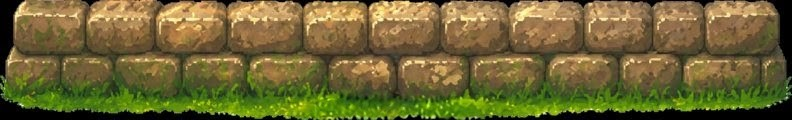
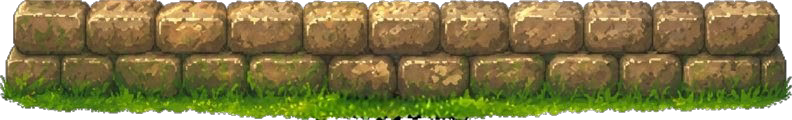
Fix Android release build: sanitize JPEG-encoded foundations, skip PNG re-crunch
The production build died at :app:mergeReleaseResources with
"AAPT: error: file failed to compile" on foundation_0.png and foundation_1.png.

Root cause: those two files were edited in Google Photos and re-saved, which
wrote JPEG bytes under a .png name (FFD8 magic, ~37KB each). Android's resource
compiler tries to compile a .png resource, hits JPEG bytes, and fails. Google
Photos also flattened the alpha channel to solid black, so a naive rename would
have rendered an opaque box over the sky.

Fix, two parts:

1. foundation_0/1 re-encoded to real 8-bit RGBA PNGs (IHDR/IDAT/IEND only) that
   preserve the tonal edits (their RGB) while restoring the original per-phase
   foundation's alpha mask (both are 792x120, aligned pixel-for-pixel), so the
   transparent top/corners and grass fringe render over the sky as before.

2. app.json adds expo-build-properties with
   android.enablePngCrunchInReleaseBuilds: false. The bundled art is already
   deflate-optimized; AAPT2's release cruncher gains nothing by re-compressing
   it and only risks non-deterministic "failed to compile" collateral under the
   memory pressure of the ~3.5MB skies + pit backgrounds. Skipping the re-crunch
   makes the build deterministic.

Adds scripts/tools/sanitizePng.mjs to re-encode any externally-edited image
(handles JPEG-renamed-.png and embedded color profiles) to a clean PNG, so
future art edits can be sanitized before they reach AAPT. Verified against all
[…]

Changed region(s): [[0.0, 0.0, 1.0, 1.0]]

diff --git a/CLAUDE.md b/CLAUDE.md
@@ -188,7 +188,7 @@ mobile/
 │       └── animalDialogue.ts    # Re-export shim → dialogue/ submodules
 ├── src/__tests__/               # ~1,680 tests, 70 suites
 ├── scripts/                     # Puzzle bank generator scripts (12 generators)
-├── scripts/tools/               # Pure-Node asset generators + profanity purge + image downscaler
+├── scripts/tools/               # Pure-Node asset generators + profanity purge + image downscaler + sanitizePng.mjs (see below)
 ├── eas.json                     # EAS build profiles; `appVersionSource: "local"` → app.json is the single version source. autoIncrement is OFF (it re-bumped to the same code on local source and collided on Play) — **bump `android.versionCode` manually for each release**. `submit.production.android` is wired (serviceAccountKeyPath `./secrets/play-service-account.json`, internal track); the service-account JSON must have Release permission and the FIRST upload of a new app must be done manually in Play Console. Production no longer disables Sentry source-map upload (the `@sentry/react-native` plugin in app.json carries `organization`/`project`; the `SENTRY_AUTH_TOKEN` EAS env secret provides auth; dev/preview still set `SENTRY_DISABLE_AUTO_UPLOAD`). `docs/LAUNCH_CHECKLIST.md` tracks the remaining human release tasks.
 └── eslint.config.js             # ESLint 9 flat config. Overrides downgrade CommonJS/unused-var idioms in `scripts/**` (generators) and test files so real app-code warnings aren't drowned (baseline: 0 errors, ~690 warnings — dominated by `react-hooks/refs` notices in components, plus intentional guarded `require`s + hook-dep notes)
 ```
@@ -669,6 +669,7 @@ Engaged players can reach Phase 4 in ~120-150 puzzles instead of 250:
 ## Known Constraints
 
 - `app.json` → `android.blockedPermissions` strips `FOREGROUND_SERVICE` + `FOREGROUND_SERVICE_MEDIA_PLAYBACK` (expo-audio injects them; the game plays foreground SFX only, and shipping the typed FGS permission triggers Play's Android-14 foreground-service declaration for a capability the app doesn't have). Do NOT remove the block unless background audio actually ships
+- **Bundled PNGs must be real, clean PNGs or the Android release build dies at `:app:mergeReleaseResources` with `AAPT: error: file failed to compile`.** Two guards: (1) `app.json` → `expo-build-properties` sets `android.enablePngCrunchInReleaseBuilds: false` so AAPT2 skips re-crunching the already-optimized art (the ~3.5MB skies + pit backgrounds otherwise stress the cruncher and cause non-deterministic collateral failures). (2) Art edited in phone/photo tools (Google Photos etc.) is exported as **JPEG bytes under a `.png` name** or with an embedded color profile (iCCP) — libpng inside AAPT2 rejects both. Run `node scripts/tools/sanitizePng.mjs <file.png>` (from `mobile/`) on any externally-edited image before committing: it decodes via jimp (PNG *or* JPEG) and re-encodes through pngjs to a minimal `IHDR/IDAT/IEND` RGBA PNG. JPEG also **drops the alpha channel** (flattens transparency to a solid color), so for art that needs transparency (the per-phase foundations), re-apply the original's alpha mask rather than shipping an opaque box
 - Standard/reverse/double_shift at ALL difficulties from pre-generated banks (lazy-loaded); speed generates on-device
 - On-device timeout: 2.5s standard, 25s reverse, 5s double-shift. Wrapper: 4s/30s
 - Fallback pool: 15 pre-validated puzzles across 3 tiers
